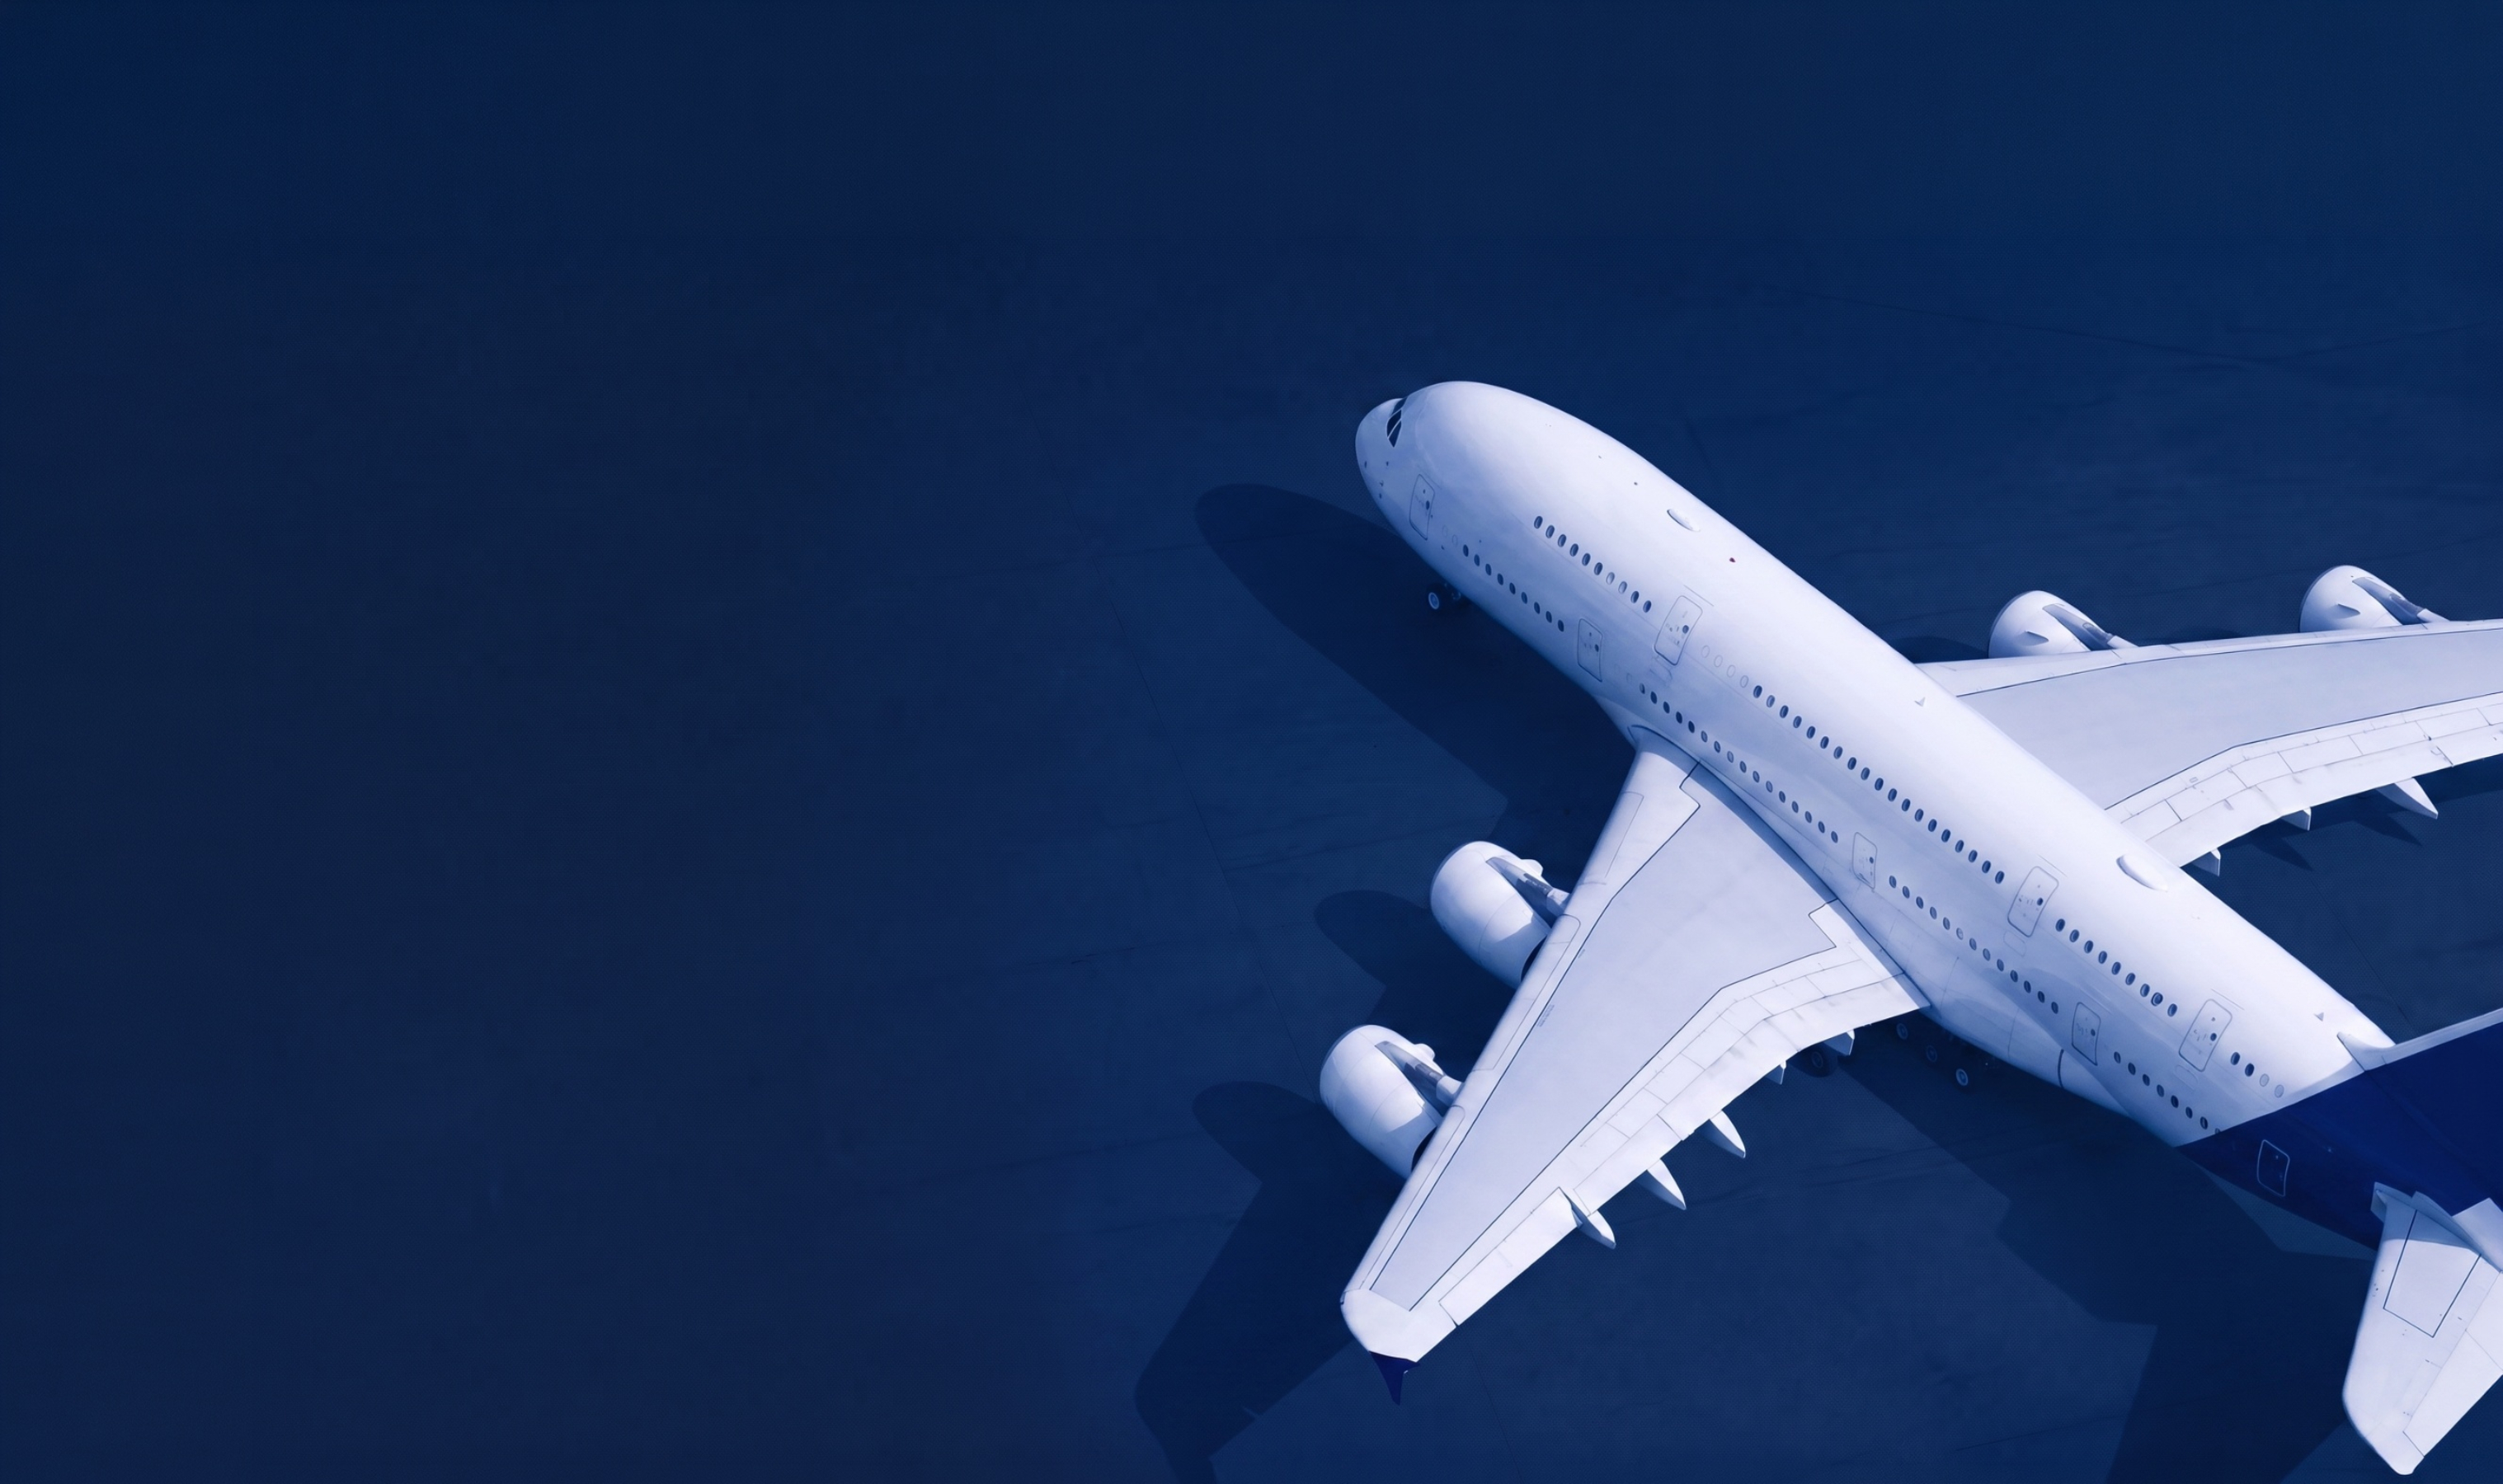
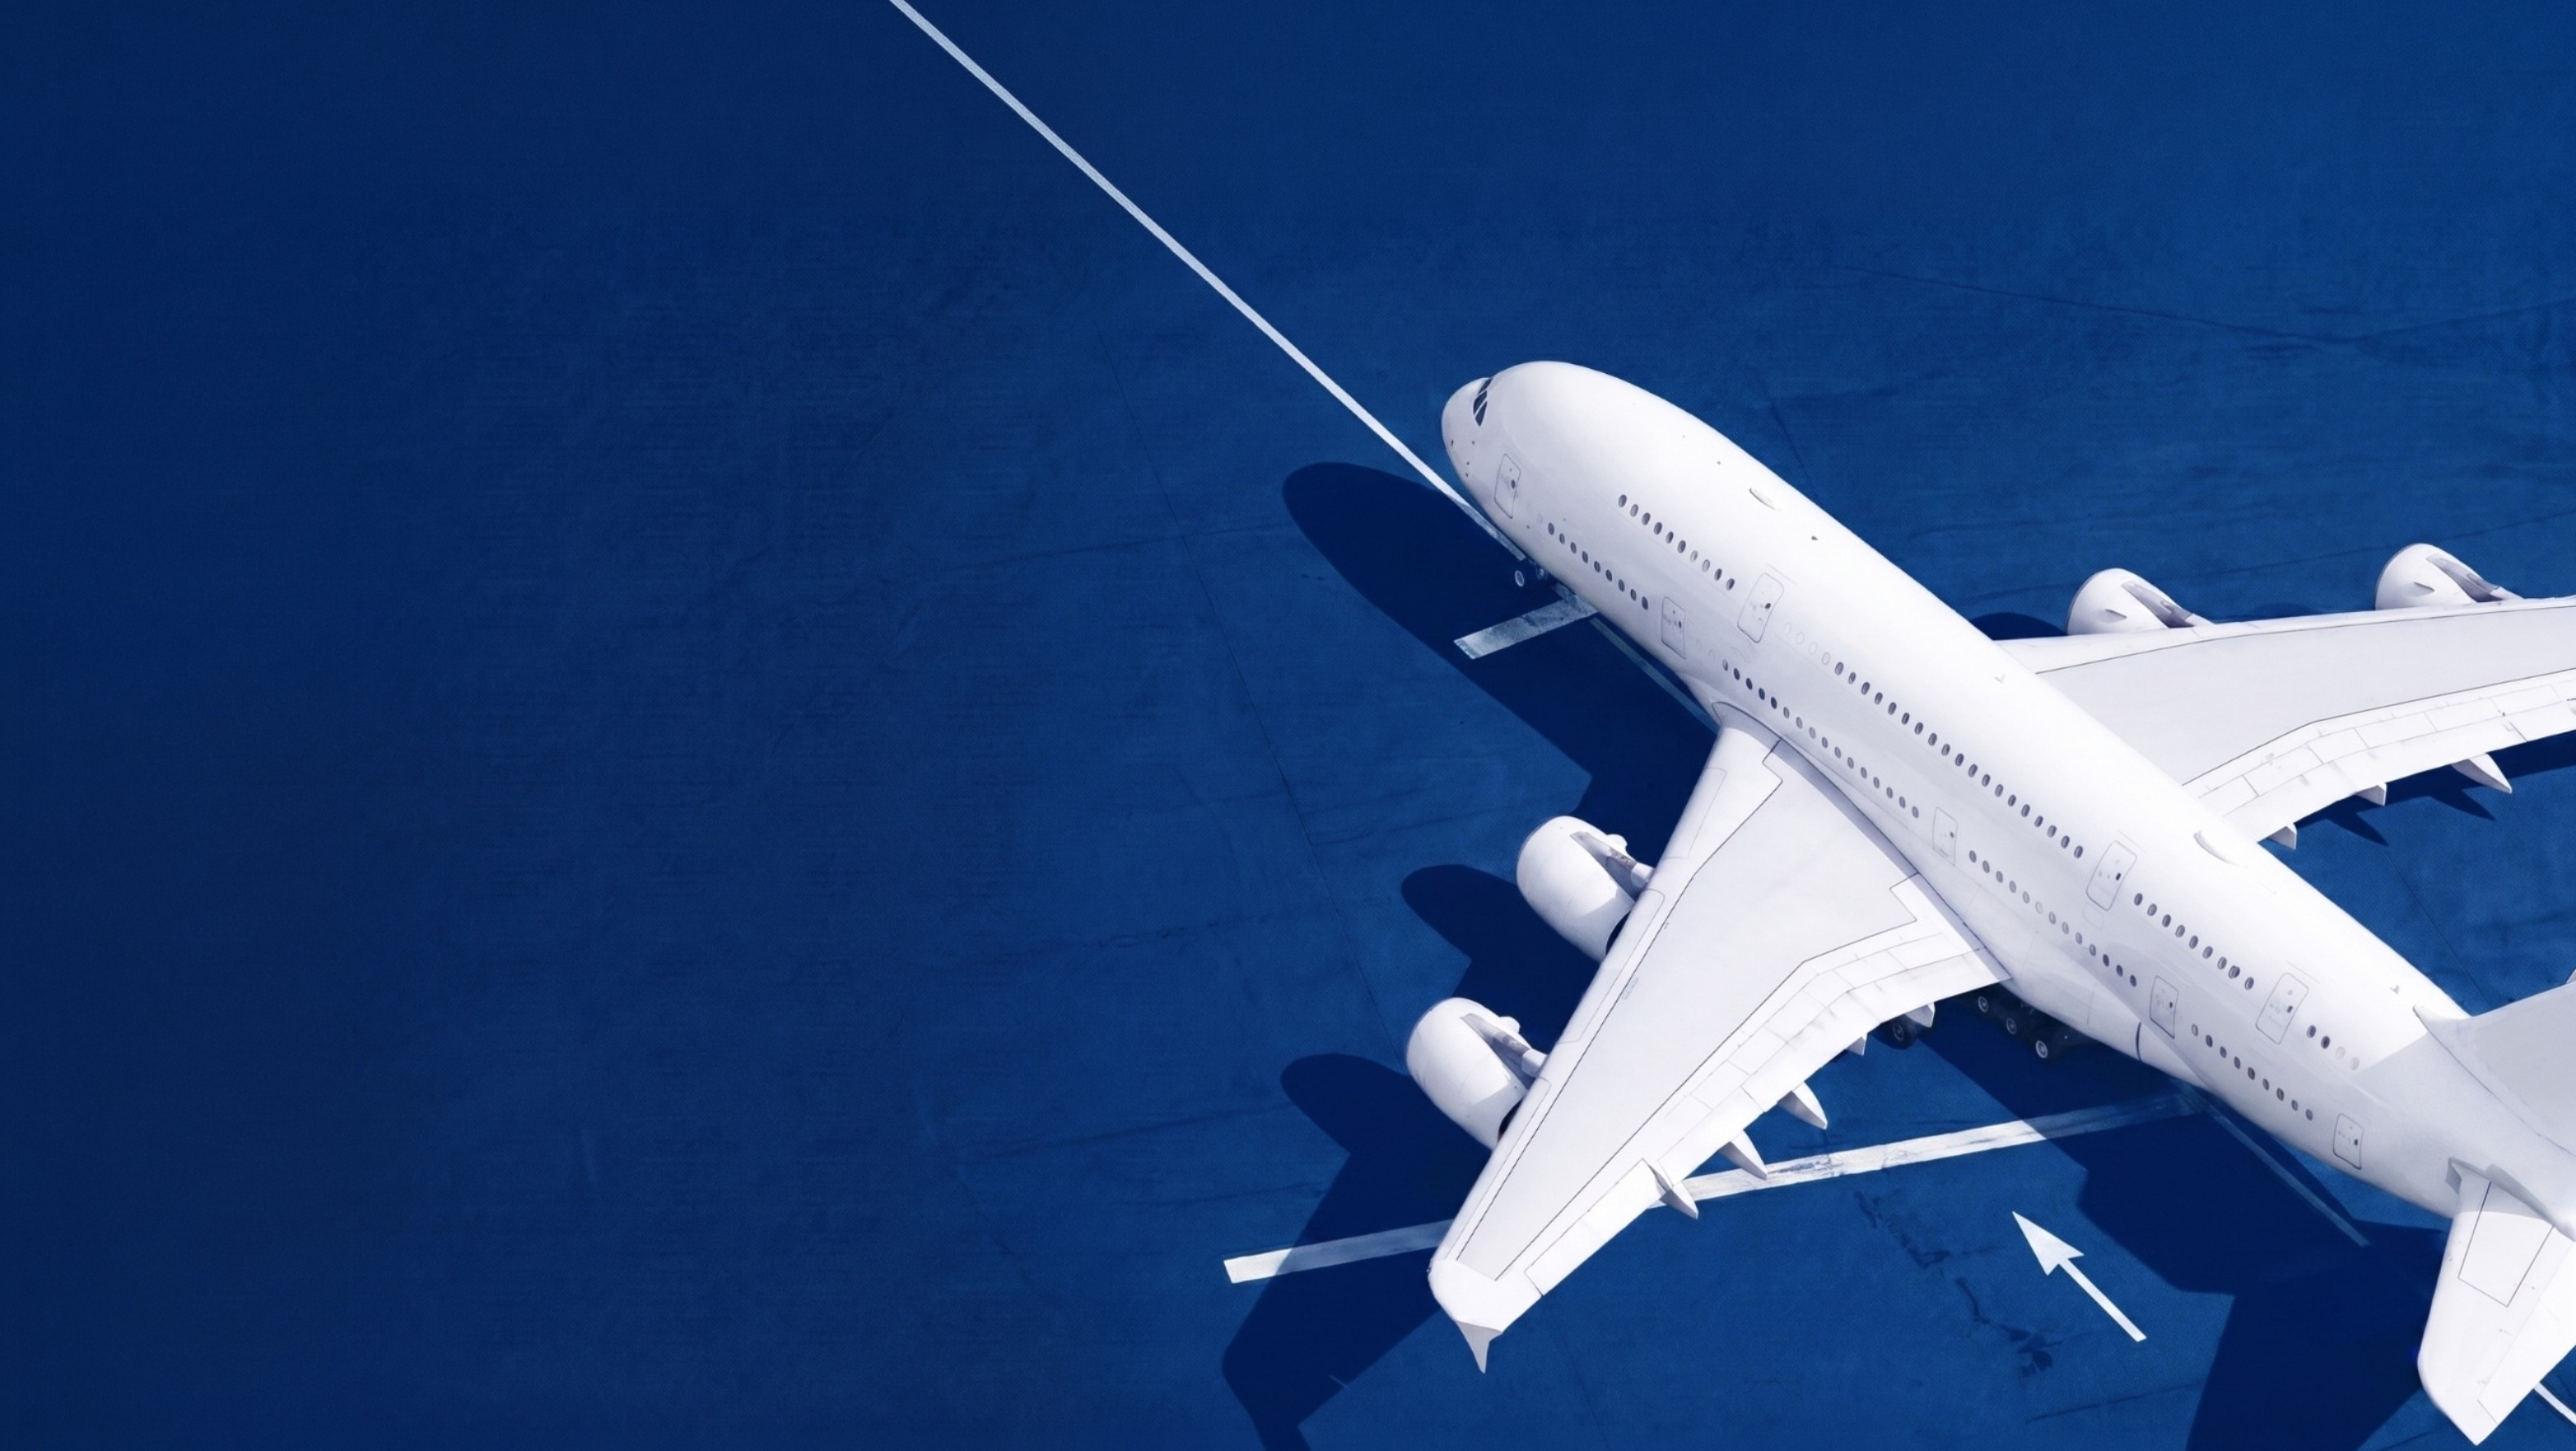
Update copy: corporate-focused mission/vision, services, about, footer, hero tweaks

diff --git a/app/page.jsx b/app/page.jsx
@@ -93,7 +93,6 @@ const coreValues = [
   { icon: "workspace_premium", title: "Excellence", body: "We continuously improve our services to exceed customer expectations." },
   { icon: "shield", title: "Reliability", body: "We deliver dependable travel solutions with attention to every detail." },
   { icon: "favorite", title: "Customer Satisfaction", body: "Our customers are at the heart of everything we do." },
-  { icon: "lightbulb", title: "Innovation", body: "We embrace technology and modern travel solutions to enhance customer experiences." },
 ];
 
 const achievements = [
@@ -129,16 +128,13 @@ export default function HomePage() {
   return (
     <div id="top">
       {/* ============ HERO ============ */}
-      <section className="relative bg-black text-white overflow-hidden min-h-[calc(100vh-5rem)] flex flex-col justify-center">
+      <section className="relative text-white overflow-hidden min-h-[calc(100vh-5rem)] flex flex-col justify-center">
         <div className="absolute inset-0">
           <img src={HERO} alt="An airplane parked on the airport tarmac" className="w-full h-full object-cover opacity-100" />
-          <div className="absolute inset-0 bg-gradient-to-r from-black/70 via-black/40 to-transparent"></div>
         </div>
-        {/* aurora brand shapes */}
-        <div className="aurora w-96 h-96 bottom-0 right-10 bg-accent/30"></div>
 
         <div className="relative z-10 w-full max-w-container mx-auto px-margin-mobile md:px-margin-desktop py-8 md:py-12 grid grid-cols-1 lg:grid-cols-12 gap-gutter items-center">
-          <div className="lg:col-span-7">
+          <div className="lg:col-span-7" style={{ textShadow: "0 2px 10px rgba(0,0,0,0.55)" }}>
             <p className="font-body font-bold uppercase tracking-[0.25em] text-gradient mb-5 text-sm">
               Aerosafe Travel &amp; Tourism
             </p>
@@ -175,18 +171,19 @@ export default function HomePage() {
           <div className="grid grid-cols-1 md:grid-cols-12 gap-gutter items-center">
             <div className="md:col-span-7 space-y-6">
               <p className="font-body text-on-surface-variant text-lg leading-relaxed">
-                Aerosafe Travel &amp; Tourism is a Dubai-based travel solutions company specializing in B2B and B2C
-                travel services, with a strong focus on innovation, cost efficiency, and service excellence — a trusted
-                partner for corporates, travel agencies, freelancers, and frequent travelers across the globe. From our
-                beginnings in India to our operations in the UAE, we have grown into a global travel partner trusted by
-                clients worldwide.
+                At Aerosafe Travel &amp; Tourism, we specialize in delivering reliable, efficient, and cost-effective
+                Corporate Travel Management solutions for businesses of all sizes. Based in Chennai, we help organizations
+                simplify business travel through professional planning, dedicated support, and personalized service.
               </p>
-              <h3 className="font-heading font-bold uppercase text-navy text-xl">Who We Are</h3>
               <p className="font-body text-on-surface-variant leading-relaxed">
-                We are a team of passionate travel professionals dedicated to making every journey smooth, safe, and
-                memorable. What sets us apart is our fusion of technology and hospitality — through an advanced B2B online
-                portal and personalized VIP-style B2C services — delivering reliable travel solutions with attention to
-                every detail.
+                We understand that corporate travel is more than booking flights and hotels—it's about ensuring every
+                business trip is seamless, productive, and stress-free. Our experienced team works closely with each client
+                to provide customized travel solutions that save time, control costs, and keep business travelers focused on
+                what matters most.
+              </p>
+              <p className="font-body text-on-surface-variant leading-relaxed">
+                Whether you're a startup, SME, or multinational company, Aerosafe becomes your trusted travel partner by
+                managing every aspect of your corporate travel requirements with speed, accuracy, and professionalism.
               </p>
             </div>
             <div className="md:col-span-5 relative">
@@ -229,8 +226,8 @@ export default function HomePage() {
                 <span className="material-symbols-outlined text-accent filled">visibility</span> Vision
               </h2>
               <p className="font-body text-white/80 text-lg leading-relaxed">
-                To be one of the most trusted and innovative travel solution providers in the UAE and globally,
-                recognized for reliability, transparency, and customer-focused service.
+                To become one of India's most trusted corporate travel management companies by building long-term
+                relationships through professionalism, innovation, and service excellence.
               </p>
             </div>
             <div className="bg-white/5 border border-white/10 p-10 rounded-2xl">
@@ -238,8 +235,8 @@ export default function HomePage() {
                 <span className="material-symbols-outlined text-accent filled">flag</span> Mission
               </h2>
               <p className="font-body text-white/80 text-lg leading-relaxed">
-                To provide seamless, reliable, and affordable travel solutions to individuals, businesses, and corporate
-                clients by combining technology, expertise, and personalized service.
+                To provide businesses with dependable, efficient, and value-driven corporate travel solutions that enhance
+                productivity while delivering exceptional customer service and complete travel peace of mind.
               </p>
             </div>
           </div>
@@ -269,21 +266,20 @@ export default function HomePage() {
       {/* ============ CORPORATE TRAVEL MANAGEMENT ============ */}
       <section className="py-24 bg-surface">
         <div className="max-w-container mx-auto px-margin-mobile md:px-margin-desktop">
-          <SectionHeading kicker="For Businesses" title="Corporate Travel Management" centered />
+          <SectionHeading kicker="For Businesses" title="Our Corporate Travel Services" centered />
           <div className="grid grid-cols-1 md:grid-cols-2 gap-6 mt-4">
             {[
-              "Corporate Air Ticket Booking",
-              "Hotel & Accommodation Arrangements",
-              "Business Visa Assistance",
-              "Travel Insurance for Employees",
-              "Airport Transfers & Transport",
-              "Group & Conference Travel",
-              "Customized Travel Policies & Reports",
-              "24/7 Dedicated Support",
+              { icon: "✈️", label: "Domestic & International Air Ticketing" },
+              { icon: "🏨", label: "Corporate Hotel Reservations" },
+              { icon: "🌍", label: "Business & International Visa Assistance" },
+              { icon: "🛡️", label: "Corporate Travel Insurance" },
+              { icon: "🚗", label: "Airport Transfers & Executive Transportation" },
+              { icon: "👥", label: "Group Business Travel" },
+              { icon: "🎯", label: "Meetings, Incentives, Conferences & Exhibitions (MICE)" },
             ].map((item) => (
-              <div key={item} className="flex items-center gap-4 bg-muted rounded-2xl p-5 border-l-4 border-primary">
-                <span className="material-symbols-outlined text-primary filled text-2xl">check_circle</span>
-                <p className="font-body text-on-surface-variant font-medium">{item}</p>
+              <div key={item.label} className="flex items-center gap-4 bg-muted rounded-2xl p-5 border-l-4 border-primary">
+                <span className="text-2xl leading-none">{item.icon}</span>
+                <p className="font-body text-on-surface-variant font-medium">{item.label}</p>
               </div>
             ))}
           </div>

diff --git a/components/Footer.jsx b/components/Footer.jsx
@@ -19,10 +19,14 @@ export default function Footer() {
               />
             </div>
             <p className="font-body text-sm text-white/70 max-w-sm leading-relaxed">
-              We sincerely thank our esteemed clients, partners, and stakeholders for their continued trust and
-              collaboration. Your support drives our growth and innovation, and together, we look forward to building
-              lasting partnerships and shaping the future of travel with Aerosafe.
+              At Aerosafe, every journey is managed with precision and care. From a single executive trip to large-scale
+              corporate travel programs, our goal is to deliver a smooth travel experience backed by responsive support
+              and expert guidance.
             </p>
+            <div className="pt-1">
+              <p className="font-heading font-bold text-white text-base">Aerosafe Travel &amp; Tourism</p>
+              <p className="font-body text-sm text-white/70">Your Trusted Corporate Travel Partner.</p>
+            </div>
           </div>
 
           <div className="flex flex-col gap-3 font-body text-sm">